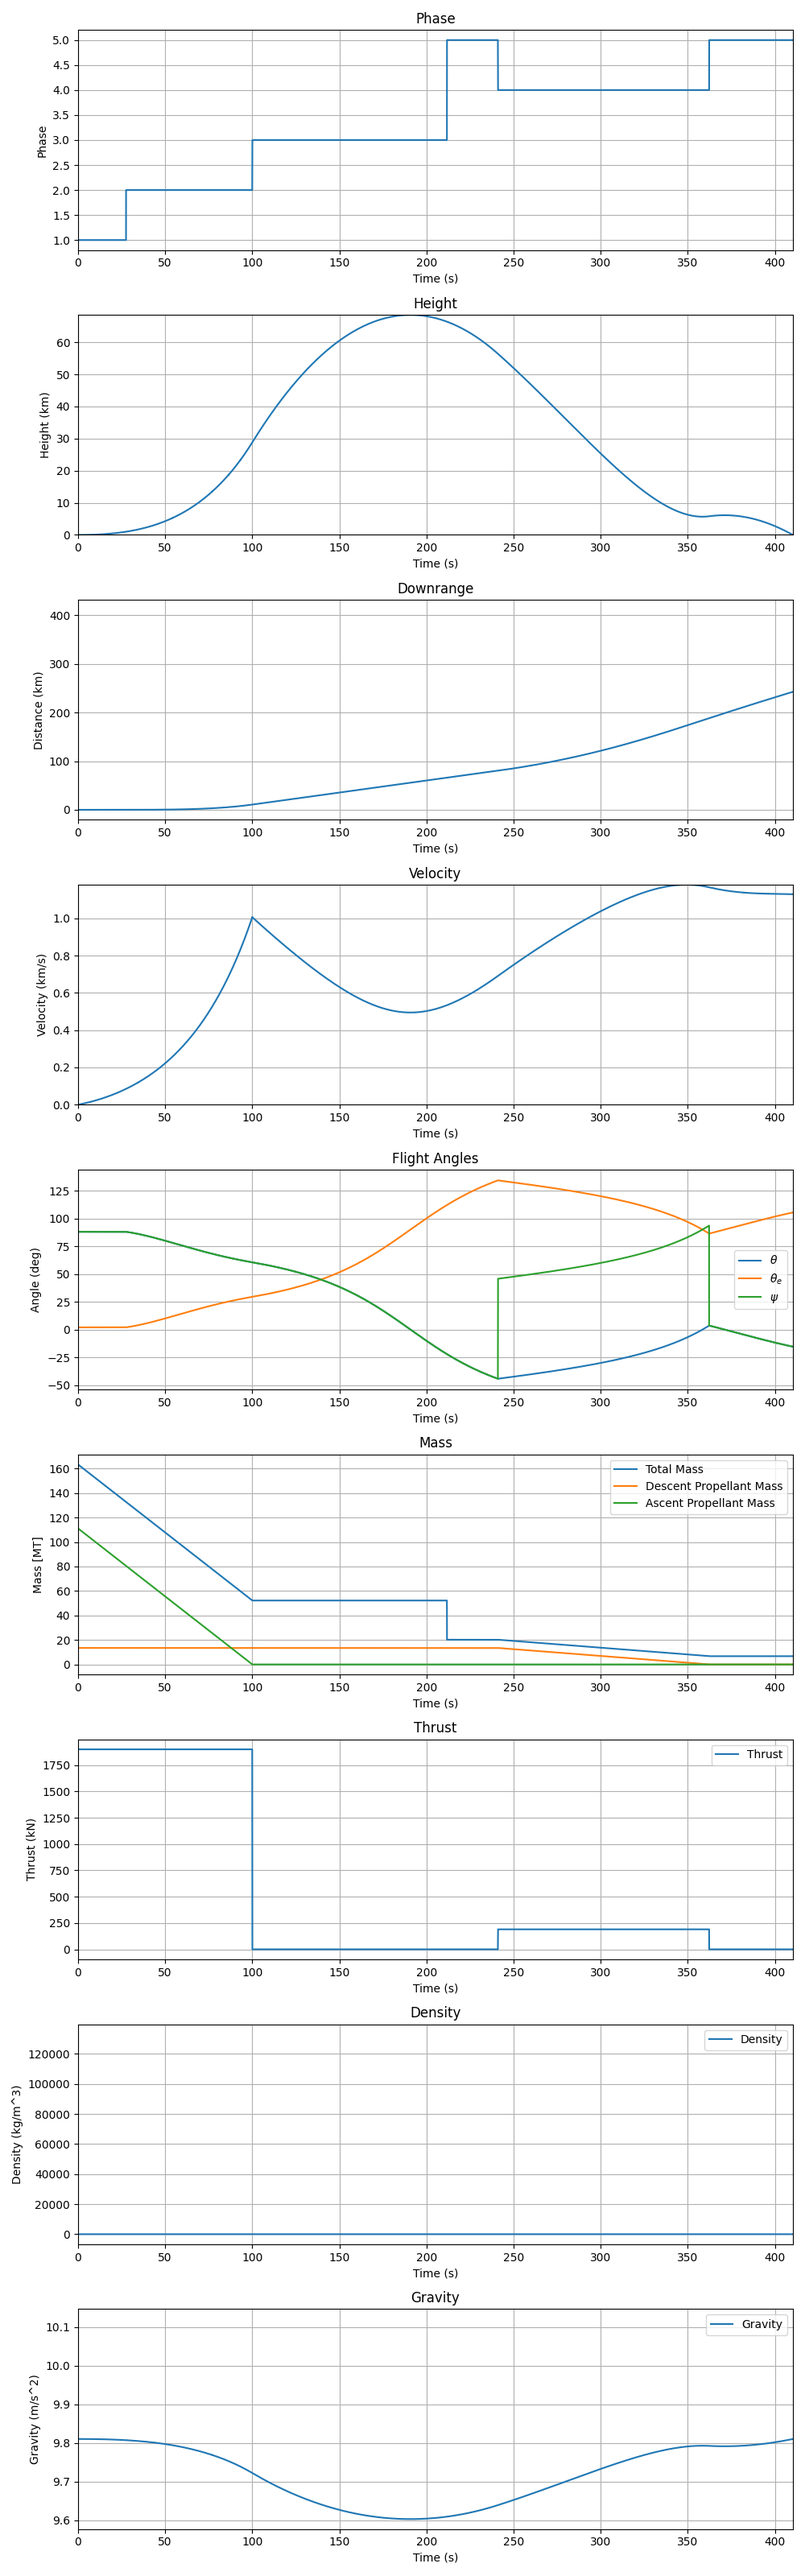
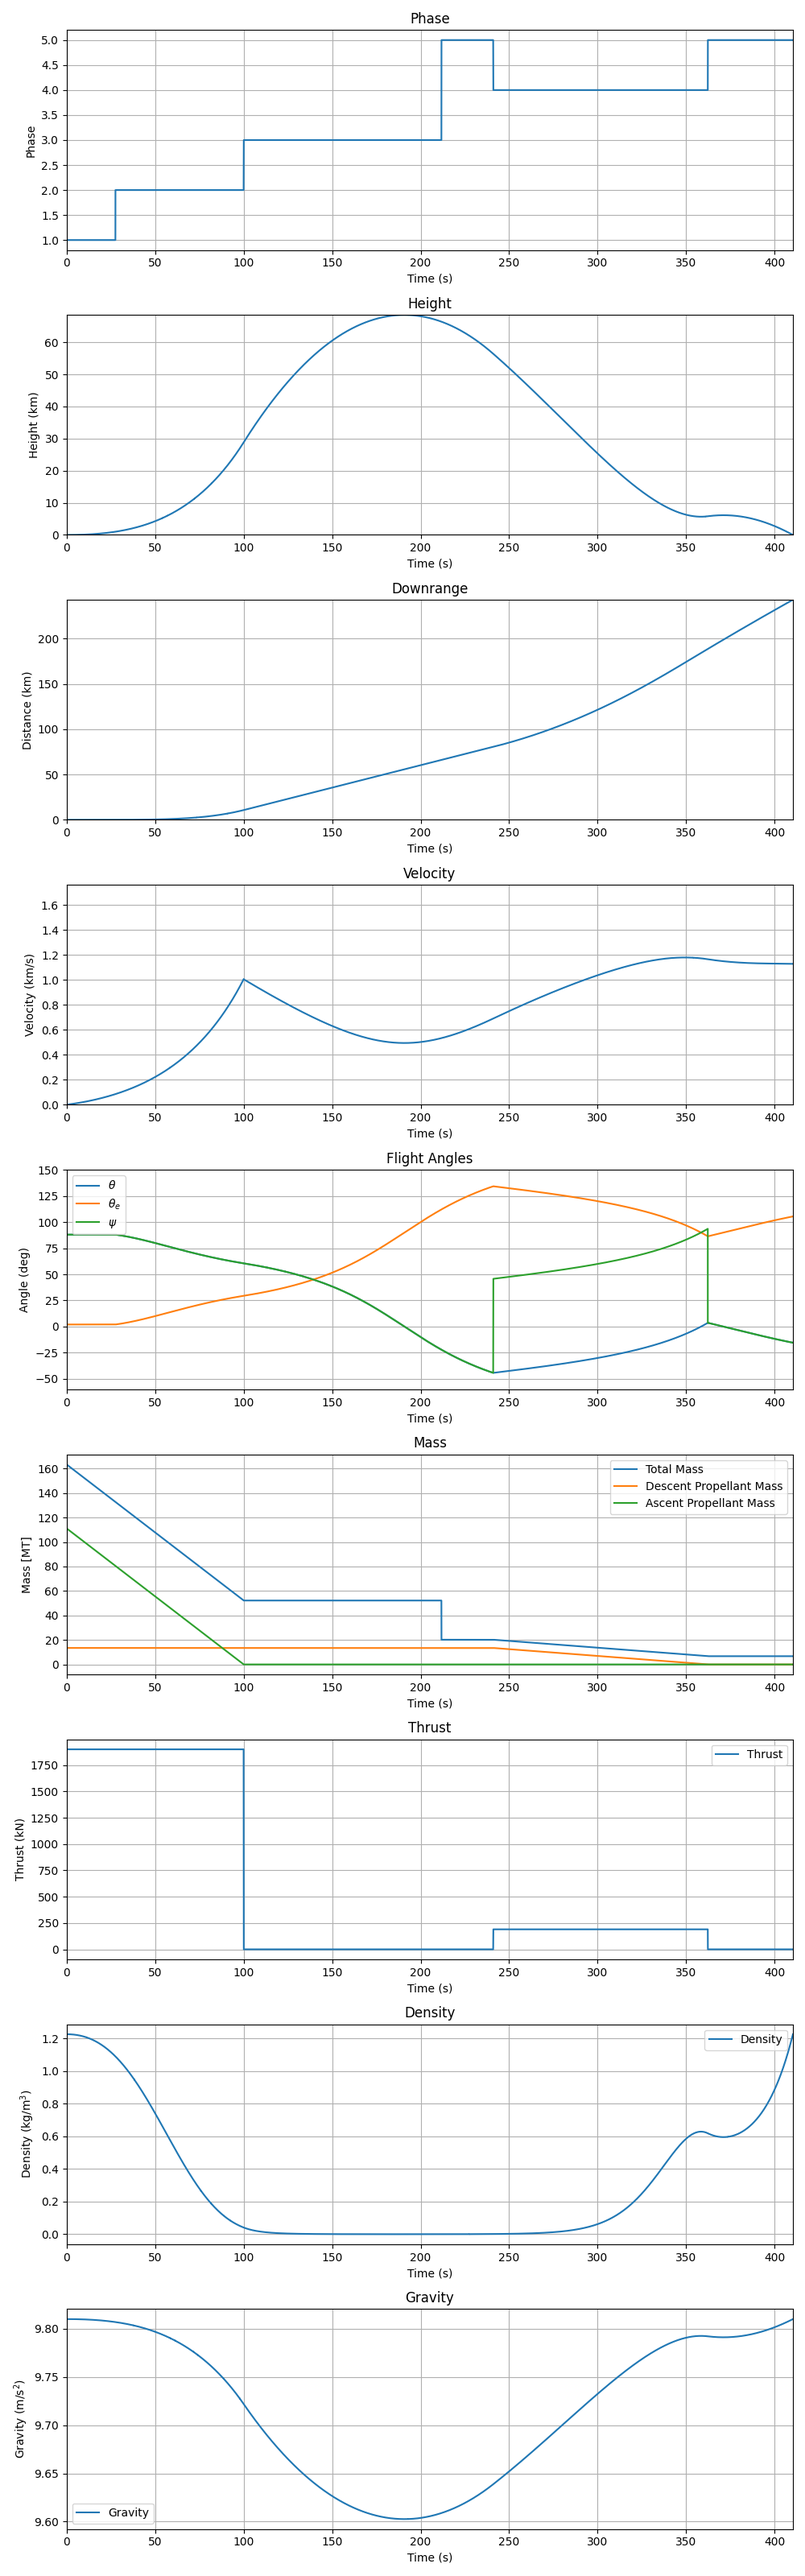
Fixed density calculation

diff --git a/src/trajectory.py b/src/trajectory.py
@@ -11,8 +11,8 @@ from util import normalize_radians
 def determine_density(h):
     # Constants for the standard atmosphere model
     rho0 = 1.225  # Sea level air density in kg/m^3
-    h0 = 0       # Altitude at sea level in meters
-    H = 8500     # Scale height in meters
+    h0 = 0        # Altitude at sea level in meters
+    H = 8500      # Scale height in meters
 
     # Calculate air density using exponential decrease with altitude
     rho = rho0 * np.exp(-(h - h0) / H)
@@ -27,18 +27,18 @@ def ode_equations(t,y):
     h = y[2]
     x = y[3]
 
-    # Determine gravity as a fcn of h
-    Re = 6.3781e6
-    g = 9.81 * (Re/(Re + h))**2
-
-    # Determine density as a fcn of height
-    rho = determine_density(h)
-    print(rho)
-
     # Init
     global util_values
     global save_values
     
+    # Determine density and gravity as a fcn of height
+    if h > 0:
+        rho = determine_density(h)
+        g = 9.81 * (Re/(Re + h))**2
+    else:
+        rho = util_values["prior_rho"]
+        g = util_values["prior_g"]
+
     # Determine dt
     util_values['dt'] = t - util_values['prior_t']
 
@@ -184,6 +184,8 @@ def ode_equations(t,y):
     # Update prior values
     util_values['prior_t'] = t
     util_values['prior_h'] = h
+    util_values['prior_rho'] = rho
+    util_values['prior_g'] = g
     
     #print(t, util_values["phase"], theta*180/np.pi,util_values['theta_error']*180/np.pi, util_values['mp_descent'])
 
@@ -195,6 +197,9 @@ if __name__ == '__main__':
     #------------------------------------------------
     # Inputs
     #------------------------------------------------
+    # Constants
+    Re = 6.3781e6
+
     # Rocket Defintions
     diam = 3.05
     Ap = np.pi/(4*diam**2)
@@ -229,9 +234,9 @@ if __name__ == '__main__':
     # Controller
     #------------------------------------------------
     # PID
-    Kp = 0
-    Ki = 3
-    Kd = 2
+    Kp = 8
+    Ki = 0
+    Kd = 0
     desired_flight_path_angle = 90
     bounds = 90
     pidController = Controller(Kp, Ki, Kd, desired_flight_path_angle, bounds)
@@ -245,6 +250,8 @@ if __name__ == '__main__':
                     'dt': 0,
                     'prior_t': 0,
                     'prior_h': 0,
+                    'prior_rho': 1.225,
+                    'prior_g': 9.81,
                     'hmax_flag': False,
                     'hmax': 0,
                     'descent_t': 0,
@@ -340,6 +347,7 @@ if __name__ == '__main__':
     axs[fig_num].set_title('Downrange')
     axs[fig_num].grid(True)
     axs[fig_num].set_xlim(0, save_values['t'][last_index_positive])
+    axs[fig_num].set_ylim(0, max(save_values['x'][0:last_index_positive]))
 
     # Plot Velocity
     fig_num = fig_num + 1    
@@ -389,7 +397,7 @@ if __name__ == '__main__':
     fig_num = fig_num + 1
     axs[fig_num].plot(save_values['t'], save_values['rho'], label="Density")
     axs[fig_num].set_xlabel('Time (s)')
-    axs[fig_num].set_ylabel('Density (kg/m^3)')
+    axs[fig_num].set_ylabel('Density (kg/m$^3$)')
     axs[fig_num].set_title('Density')
     axs[fig_num].grid(True)
     axs[fig_num].legend()
@@ -399,7 +407,7 @@ if __name__ == '__main__':
     fig_num = fig_num + 1
     axs[fig_num].plot(save_values['t'], save_values['g'], label="Gravity")
     axs[fig_num].set_xlabel('Time (s)')
-    axs[fig_num].set_ylabel('Gravity (m/s^2)')
+    axs[fig_num].set_ylabel('Gravity (m/s$^2$)')
     axs[fig_num].set_title('Gravity')
     axs[fig_num].grid(True)
     axs[fig_num].legend()
@@ -422,7 +430,7 @@ if __name__ == '__main__':
     ax.set_ylabel('Height (km)')
     ax.set_title('2D Position')
     ax.grid(True)
-    #ax.set_xlim(0, save_values['x'][last_index_positive])
+    ax.set_xlim(0, max(save_values['x'][0:last_index_positive]))
     ax.set_ylim(0, save_values['h'][np.argmax(save_values['h'])])
 
     # Save the plot
